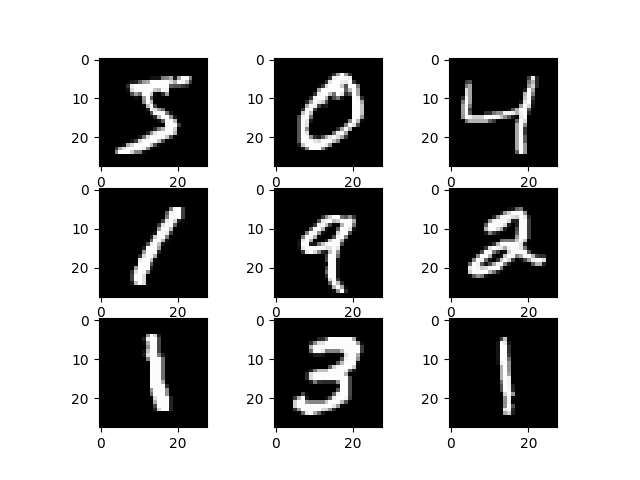
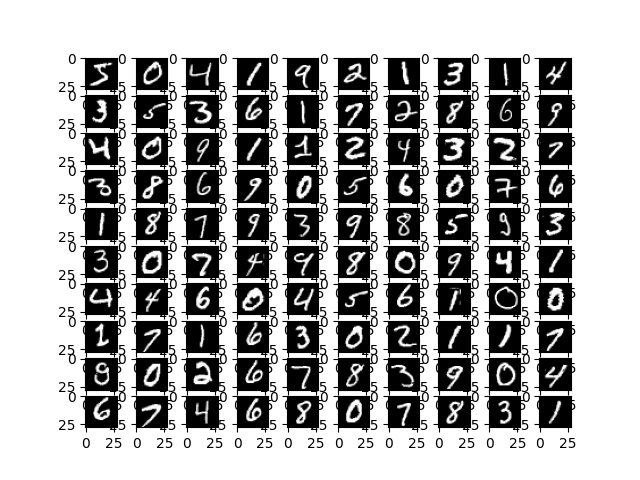
change image 10x10

diff --git a/_posts/2021-05-01-tenserflow-basic.md b/_posts/2021-05-01-tenserflow-basic.md
@@ -11,7 +11,7 @@ tags:
 
 가장 기본 튜토리얼. 아직 머신러닝 공부가 부족하여 손실 함수 등 이해가 필요한 부분이 많다. 그래도 무언가 훈련하고, 답을 찾아내는게 보여서 신기하다.
 
-[Python Script](https://github.com/lazyduo/lazyduo.github.io/tree/master/assets/scripts/tf_tutorial)
+[Python Script](https://github.com/lazyduo/tensorflow-tutorial/blob/master/scripts/tf_tutorial.py)
 
 ## Data Load
 
@@ -37,17 +37,16 @@ print('y_test:  '  + str(y_test.shape))
     x_test:  (10000, 28, 28) // input test set shape
     y_test:  (10000,)        // output test set shape
 
-어떤 이미지가 들어가 있는지 확인해보자
+28 x 28 pixel 크기의 이미지가 들어가 있는 것을 볼 수 있다. 한 번 그려보자.
 
 ```python
 from matplotlib import pyplot
 
-for i in range(9):  
-    pyplot.subplot(330 + 1 + i)
+for i in range(100):  
+    pyplot.subplot(10, 10, 1+i)
     pyplot.imshow(x_train[i], cmap=pyplot.get_cmap('gray'))
 
 pyplot.show()
-
 ```
 
 ![image-center]({{ site.url }}{{ site.baseurl }}/assets/images/MNIST.png){: .align-center}
@@ -127,6 +126,7 @@ model.evaluate(x_test,  y_test, verbose=2)
 ```
 
 - 출력값
+
 ```batchfile
 before fitting
 313/313 - 1s - loss: 2.4270 - accuracy: 0.0656
